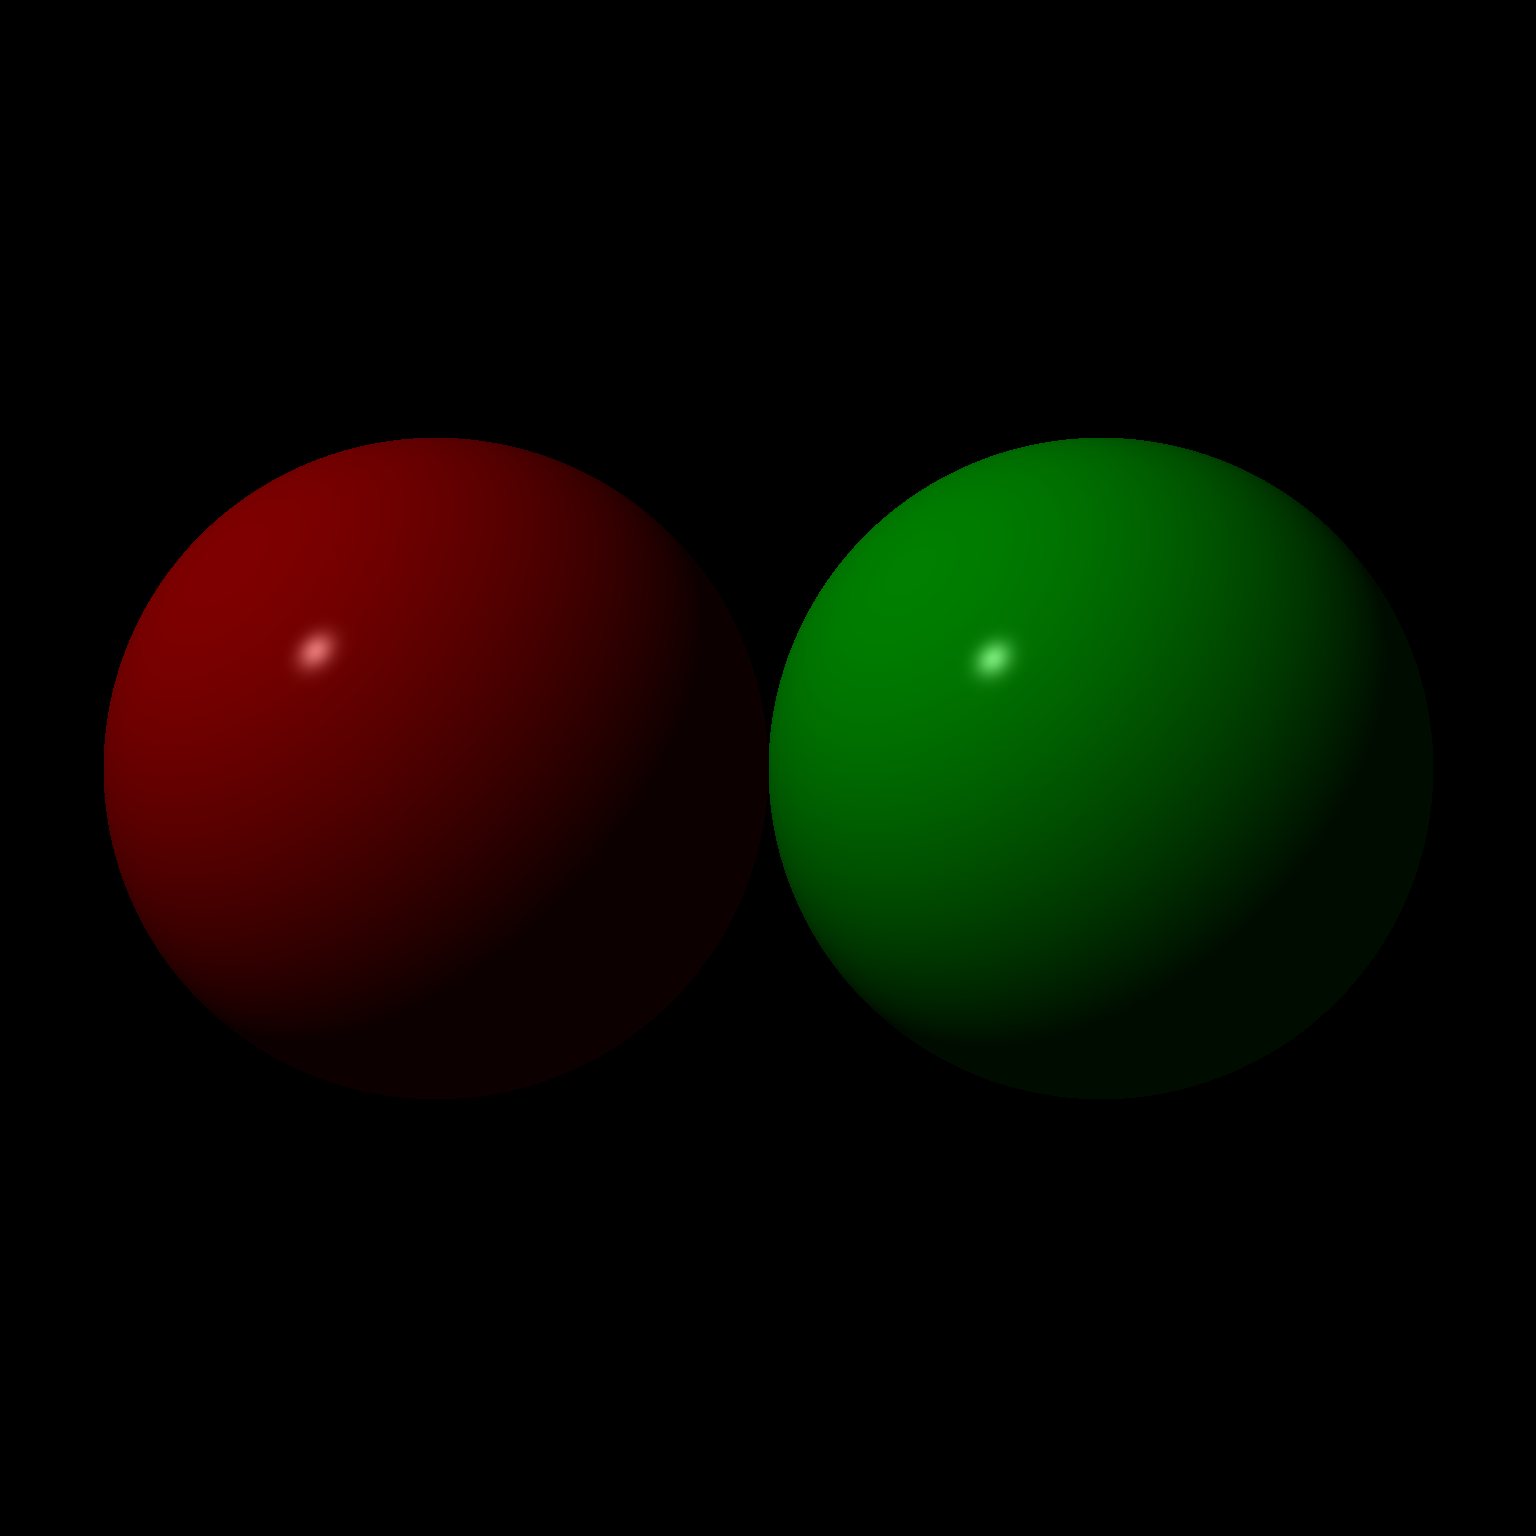
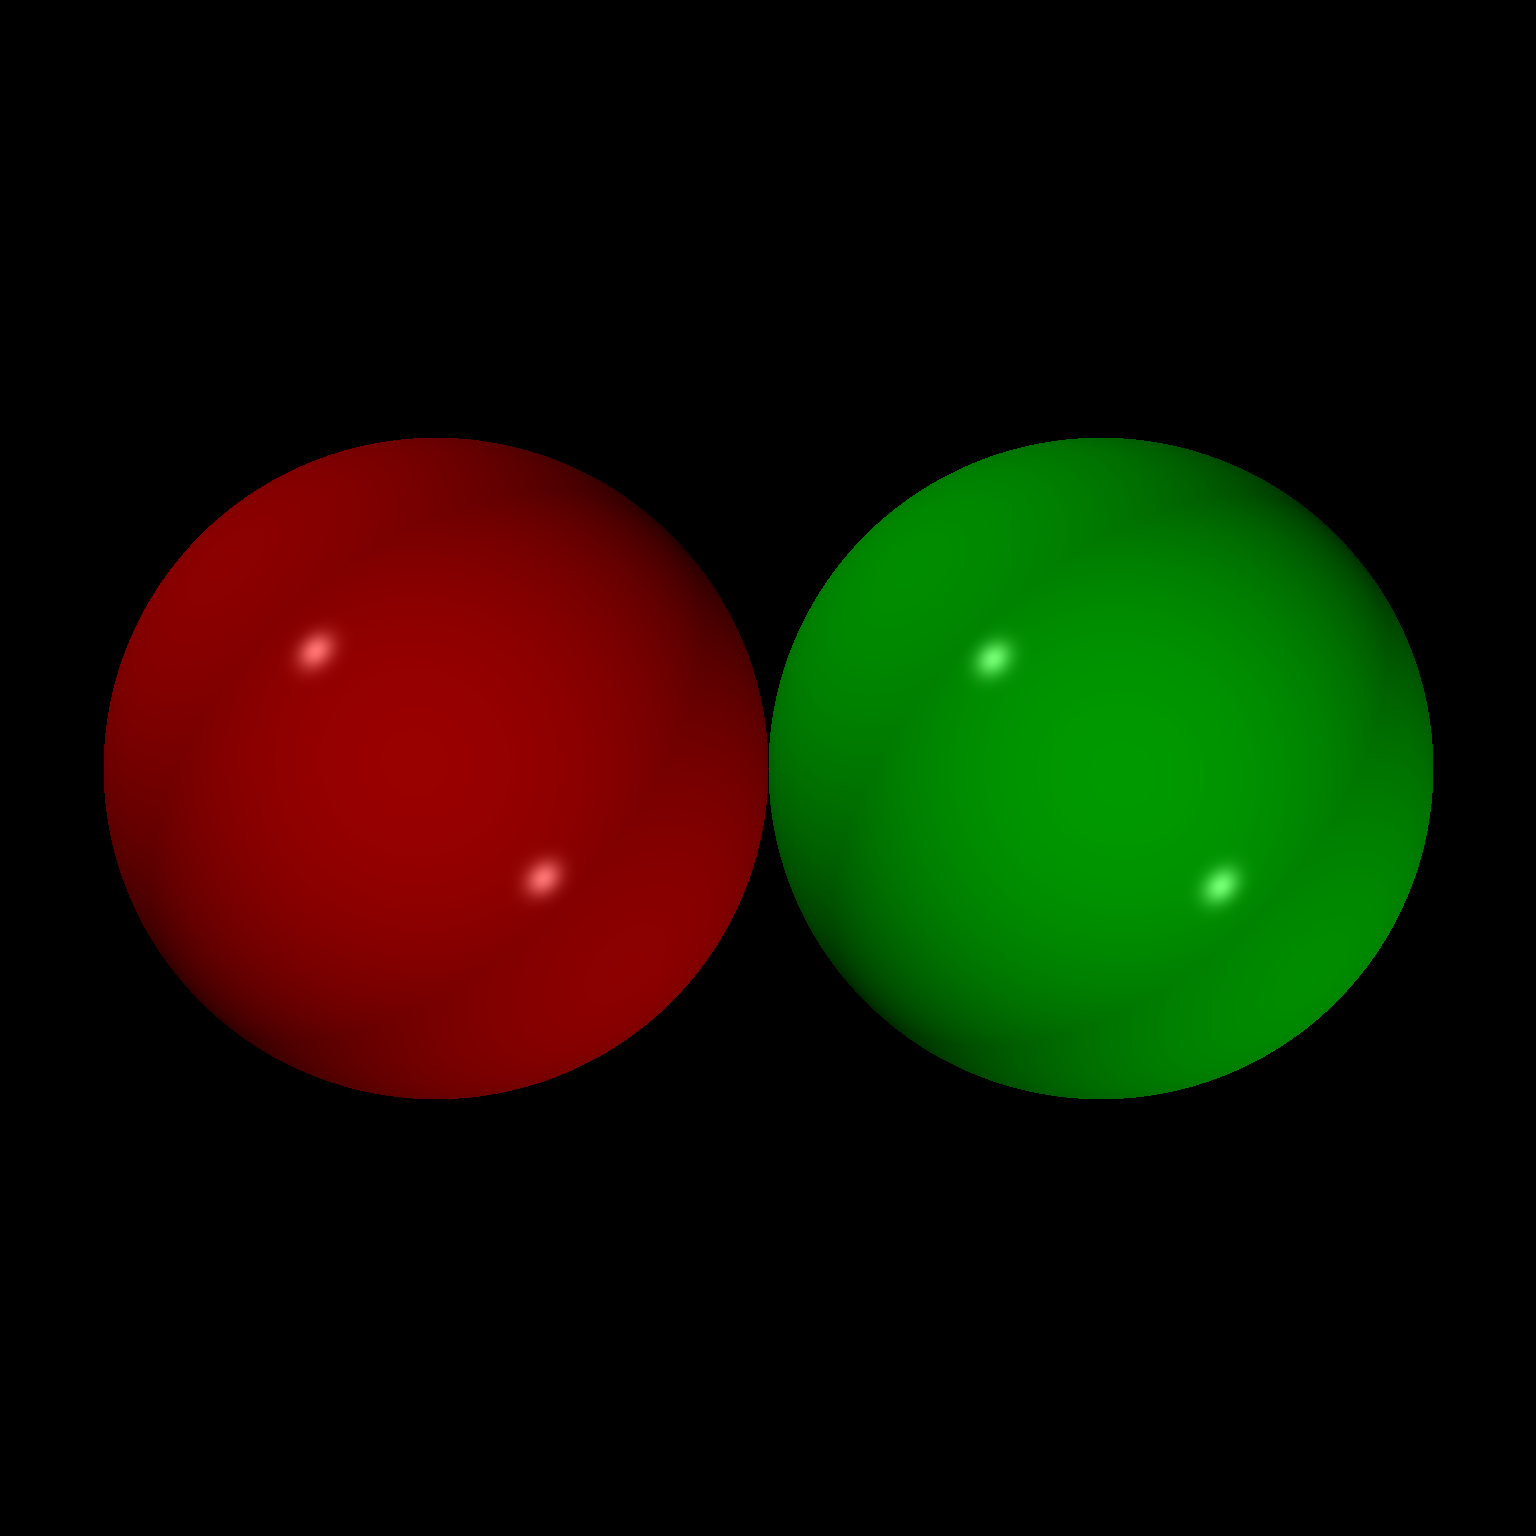
Multiple light sources

Changed region(s): [[0.0938, 0.3125, 0.5, 0.7188], [0.5312, 0.3125, 0.9375, 0.7188]]

diff --git a/src/main.cpp b/src/main.cpp
@@ -26,6 +26,11 @@ struct Sphere {
     Material material;
 };
 
+struct Light {
+    Point position;
+    Color intensity;
+};
+
 Sphere sphere(Matrix transform, Material material) {
     auto inv = transform.inverse();
     auto invTr = inv.transpose();
@@ -43,11 +48,12 @@ bool compareIntersections(Intersection i1, Intersection i2) {
 
 std::vector<Intersection> intersectionsBuffer;
 std::vector<Sphere> shapes;
+std::vector<Light> lights;
 
 Intersection *hit() {
-    for (auto iter = intersectionsBuffer.begin(); iter != intersectionsBuffer.end(); ++iter) {
-        if (iter->t >= 0.0)
-            return &(*iter);
+    for (auto &intersection : intersectionsBuffer) {
+        if (intersection.t >= 0.0)
+            return &intersection;
     }
     return nullptr;
 }
@@ -89,11 +95,6 @@ Vector normal(Sphere shape, Point point) {
     auto worldNormal = shape.invTr * objectNormal;
     return worldNormal.unit();
 }
-
-struct Light {
-    Point position;
-    Color intensity;
-};
 
 Color lightning(Light light, Material material, Point point, Vector eye, Vector n) {
     auto effectiveColor = material.color * light.intensity;
@@ -144,7 +145,10 @@ int main() {
     Sphere sphere2 = sphere(translation(0.5, 0, 0) * scale(0.5, 0.5, 0.5), greenMaterial);
     shapes.push_back(sphere2);
 
-    Light light = {Point{-10, 10, -10}, gray};
+    Light light1 = {Point{-10, 10, -10}, gray};
+    lights.push_back(light1);
+    Light light2 = {Point{10, -10, -10}, gray};
+    lights.push_back(light2);
 
     clock_t start = clock();
 
@@ -156,8 +160,8 @@ int main() {
             Ray ray{rayOrigin, (position - rayOrigin).unit()};
 
             intersectionsBuffer.clear();
-            for (auto iter = shapes.begin(); iter != shapes.end(); ++iter) {
-                intersect(&(*iter), ray);
+            for (auto &shape : shapes) {
+                intersect(&shape, ray);
             }
             std::sort(intersectionsBuffer.begin(), intersectionsBuffer.end(), compareIntersections);
 
@@ -166,7 +170,10 @@ int main() {
                 auto point = ray.at(h->t);
                 auto n = normal(*h->shape, point);
                 auto eye = -ray.direction;
-                auto color = lightning(light, h->shape->material, point, eye, n);
+                auto color = Color{0, 0, 0};
+                for (auto &light : lights) {
+                    color += lightning(light, h->shape->material, point, eye, n);
+                }
 
                 canvas.set(x, y, color);
             }

diff --git a/src/color.hpp b/src/color.hpp
@@ -7,6 +7,13 @@ struct Color {
     double r;
     double g;
     double b;
+
+    Color &operator+=(const Color &rhs) {
+        r += rhs.r;
+        g += rhs.g;
+        b += rhs.b;
+        return *this;
+    }
 };
 
 Color operator+(Color a, Color b);
